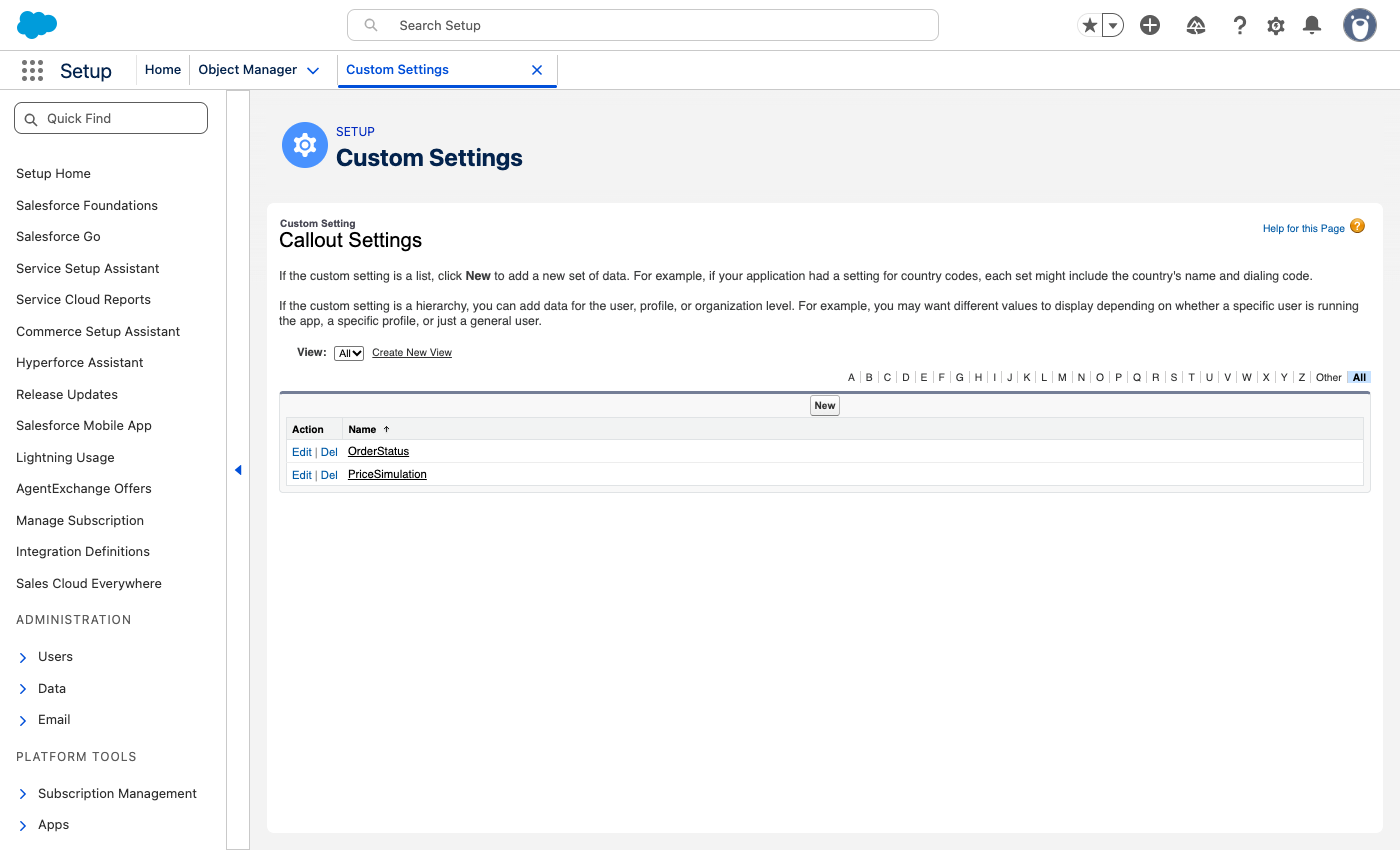
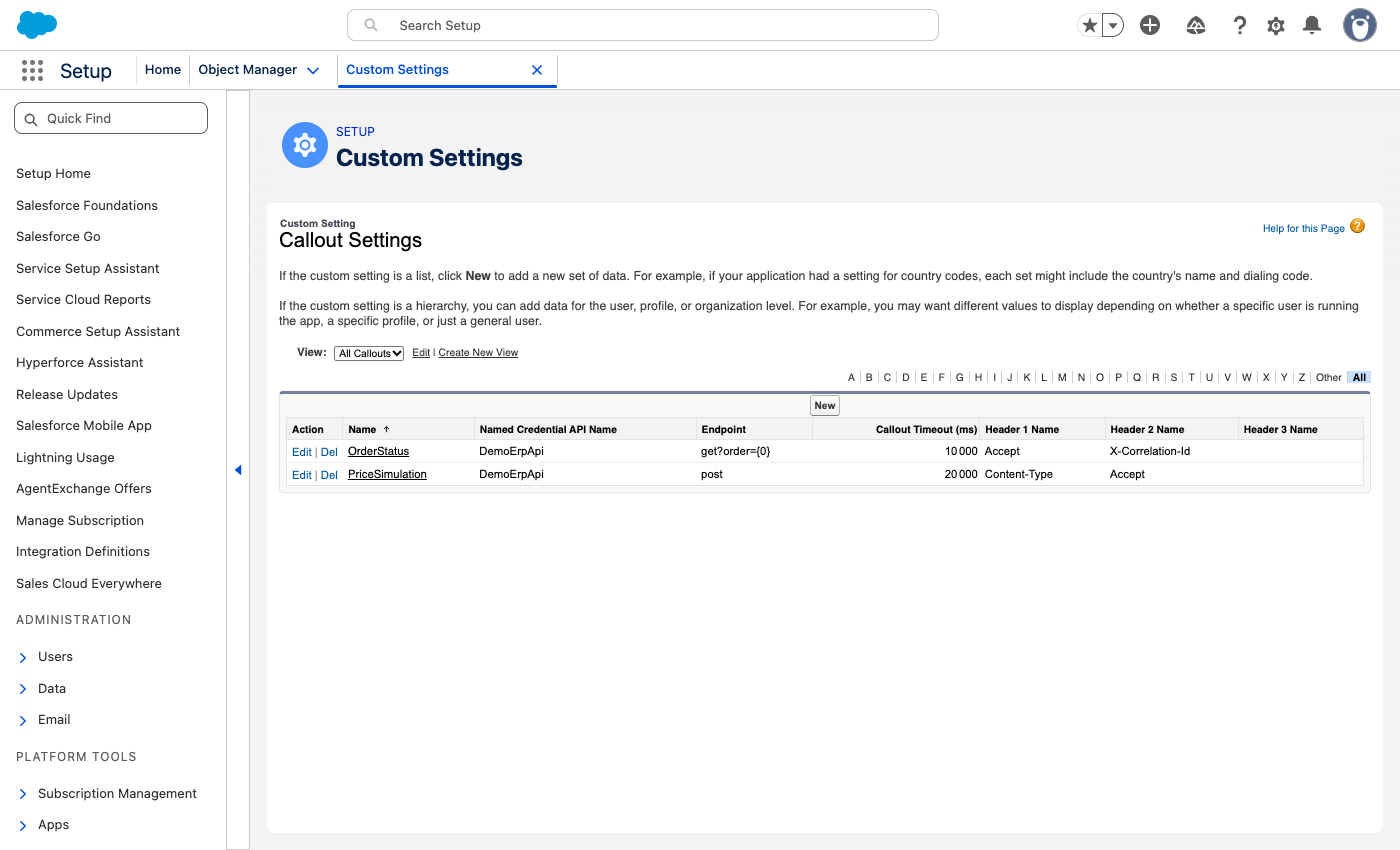
Add All Callouts list view and link Nebula Logger in README
The list view shows each callout's Named Credential, endpoint, timeout
and header names, without header values. The guided tour screenshot of
the CalloutSettings__c list now uses it.

diff --git a/README.md b/README.md
@@ -29,7 +29,7 @@ This framework was designed and written by **Nicolas Greard**. This repo package
 | --- | --- |
 | [HttpRequestUtils.cls](force-app/main/default/classes/HttpRequestUtils.cls) | The framework class |
 | [HttpRequestUtilsTest.cls](force-app/main/default/classes/HttpRequestUtilsTest.cls) | Unit tests with an `HttpCalloutMock`. They pass with and without Nebula. |
-| [CalloutSettings__c](force-app/main/default/objects/CalloutSettings__c) | List custom setting: one record per callout |
+| [CalloutSettings__c](force-app/main/default/objects/CalloutSettings__c) | List custom setting: one record per callout, with the **All Callouts** list view |
 | [scripts/deploy.sh](scripts/deploy.sh) | Deploys with or without [Nebula Logger](https://github.com/jongpie/NebulaLogger) |
 
 ## Guided tour
@@ -52,9 +52,9 @@ The Named Credential **Demo ERP API** (`DemoErpApi`) holds the base URL and uses
 
 ### 3. One CalloutSettings__c record per callout
 
-Setup > Custom Settings > Callout Settings > **Manage**. Two callouts use the same Named Credential:
+Setup > Custom Settings > Callout Settings > **Manage**. The **All Callouts** list view, deployed with the repo, shows each callout's Named Credential, endpoint, timeout and header names. Header values are left out on purpose. Here, two callouts use the same Named Credential:
 
-![List of CalloutSettings__c records: OrderStatus and PriceSimulation](docs/images/03-callout-settings.png)
+![All Callouts list view of CalloutSettings__c: OrderStatus and PriceSimulation with their Named Credential, endpoint, timeout and header names](docs/images/03-callout-settings.png)
 
 `OrderStatus` adds the path `get?order={0}`, a 10-second timeout and two non-secret headers. The API key is not here: it comes from the External Credential.
 
